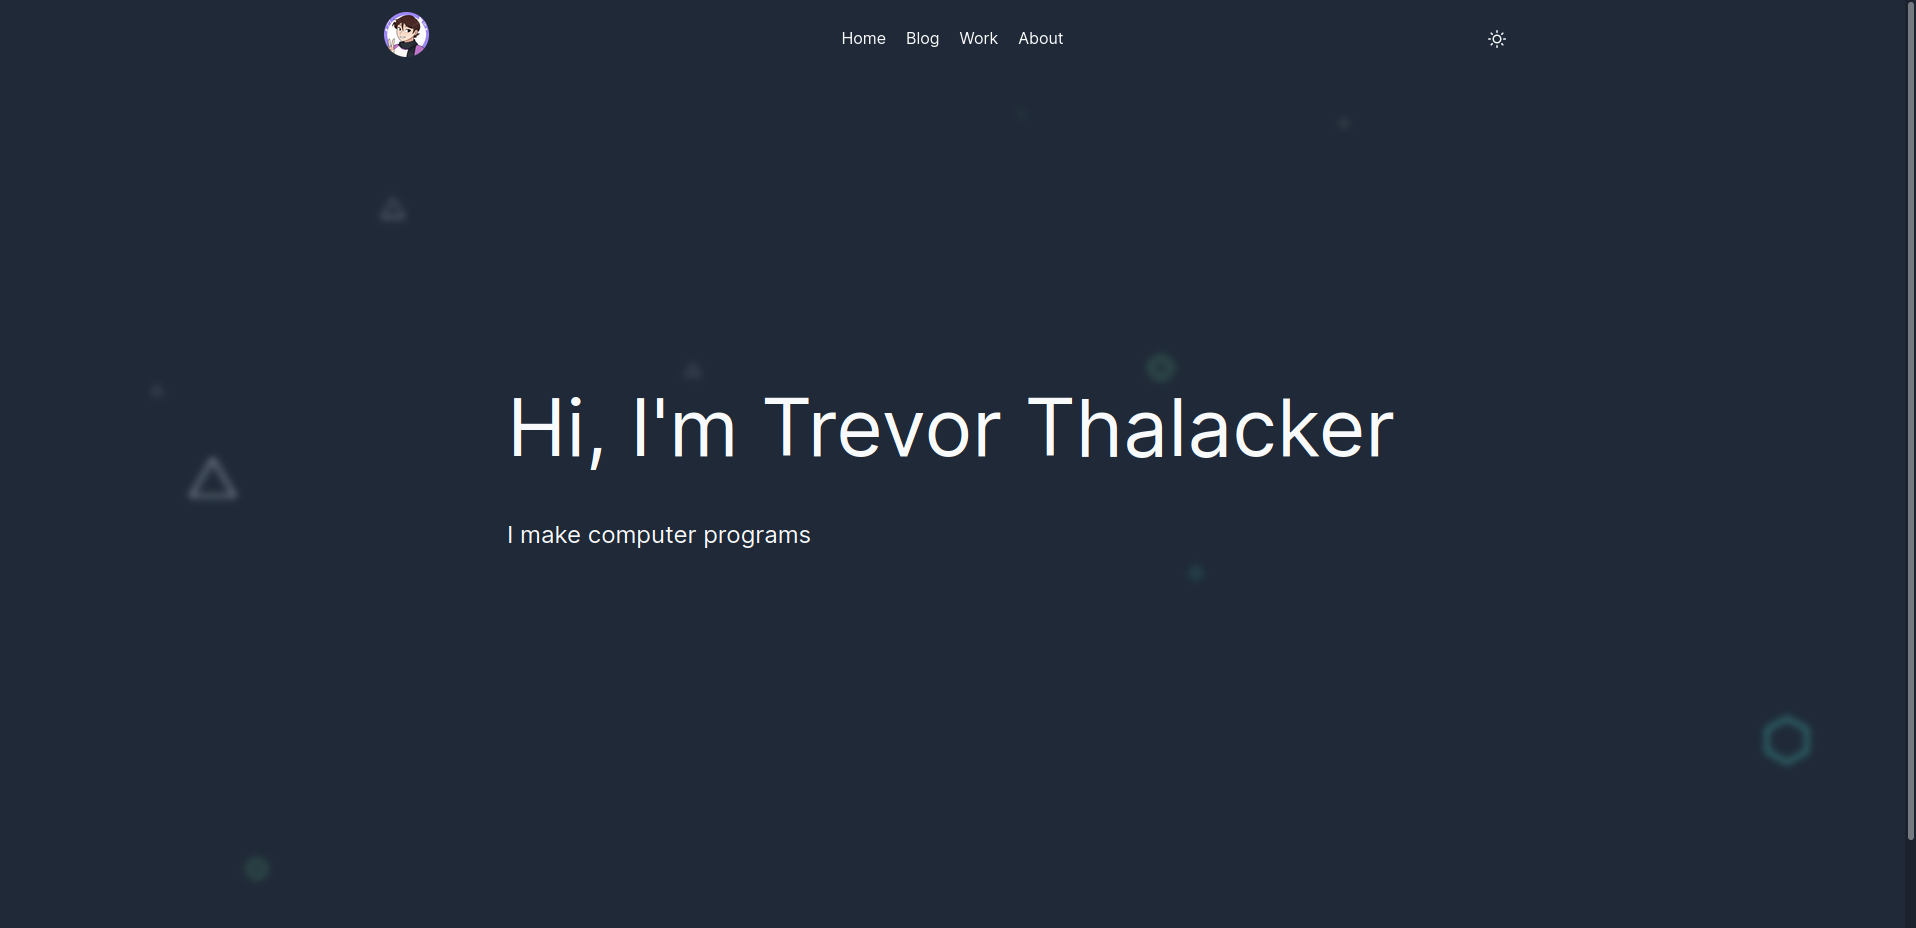
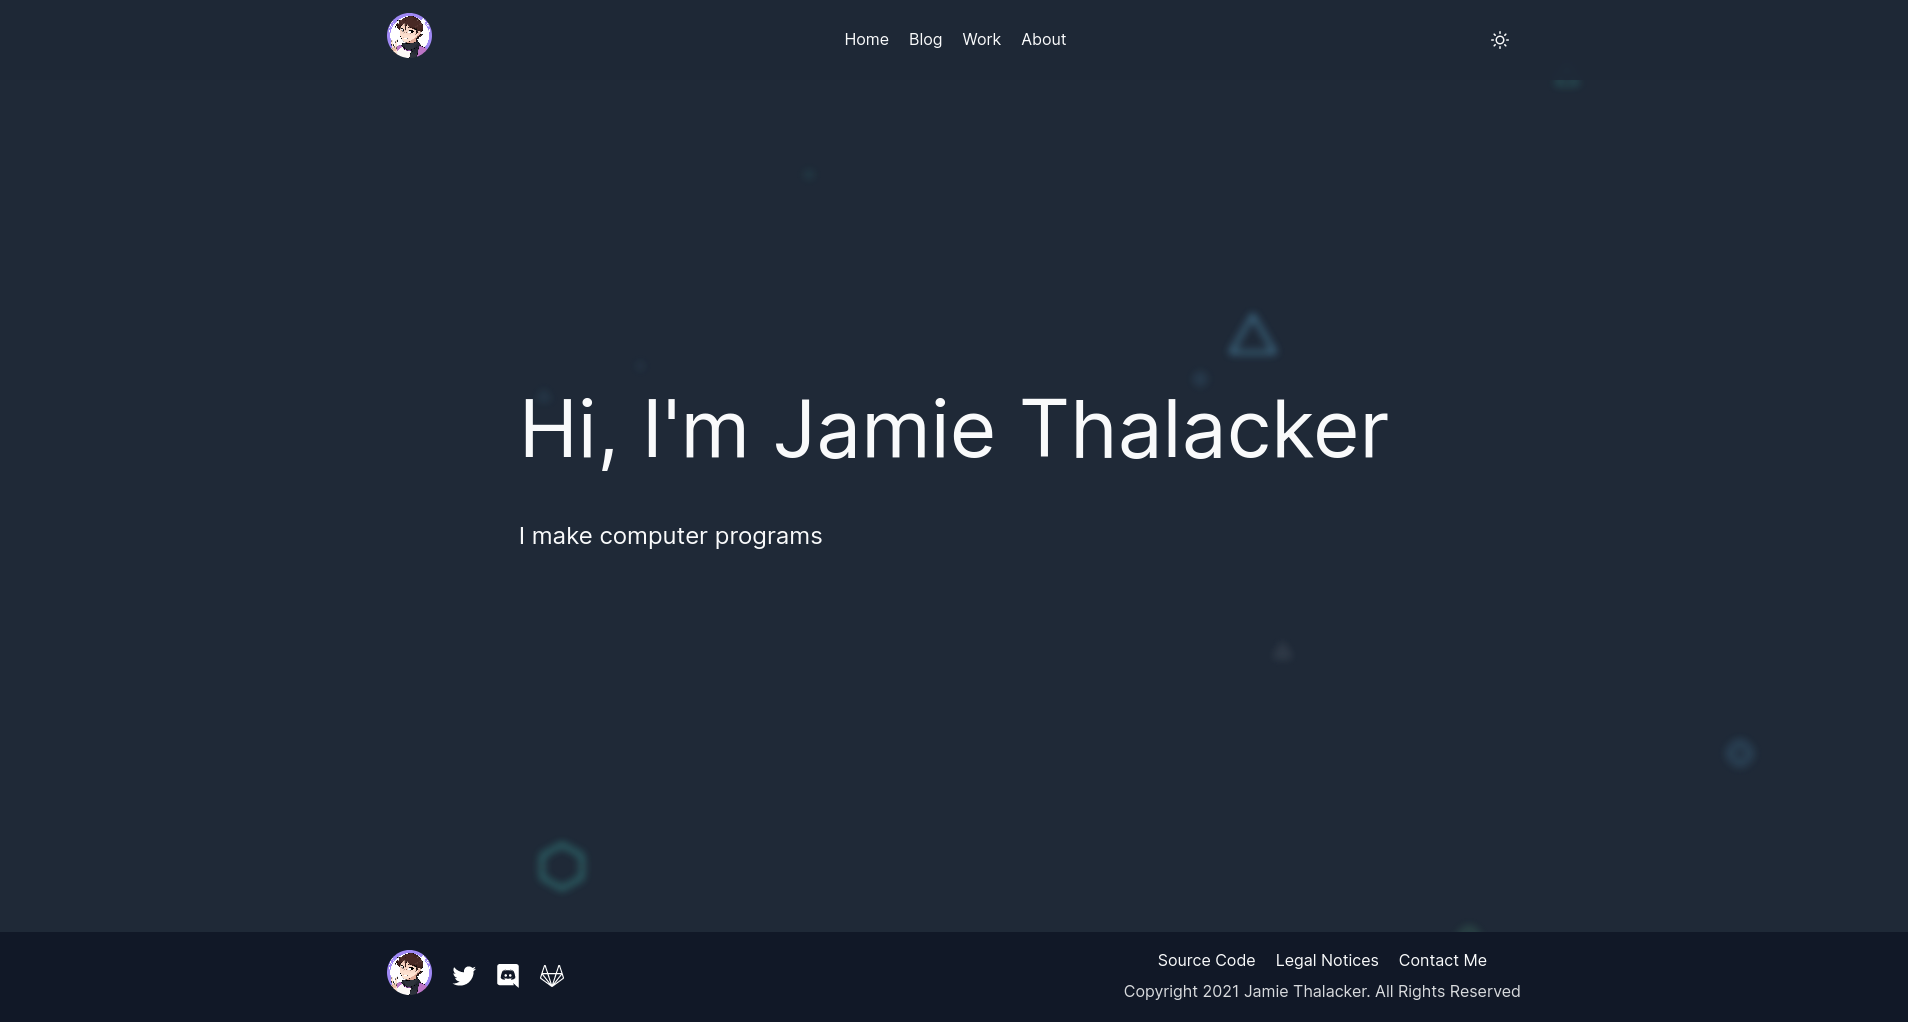
:tada: Change Name

diff --git a/src/pages/contact.tsx b/src/pages/contact.tsx
@@ -25,14 +25,7 @@ const Contact = () => {
                                 Dot HQ or Dot Browser
                             </Link>
                         </span>
-                        ? I have a Dot HQ email address,{' '}
-                        <span style={{ display: 'inline-block' }}>
-                            <Link href={'mailto:trevor@dothq.co'}>
-                                trevor@dothq.co
-                            </Link>
-                        </span>
-                        , or you could just submit feedback through Dot Browser.
-                        Which would probably be a better idea.
+                        ? Submit feedback through Dot Browser please.
                     </p>
 
                     <p>

diff --git a/src/config.ts b/src/config.ts
@@ -2,7 +2,7 @@ export const config = {
     name: 'Jamie Thalacker',
     hostname:
         process.env.NODE_ENV === 'production'
-            ? 'trevorthalacker.com'
+            ? 'jamiethalacker.dev'
             : 'localhost:3000',
     description: 'I make computer programs',
     username: 'jamiethalacker',

diff --git a/README.md b/README.md
@@ -1,3 +1,3 @@
-# trevorthalacker.com
+# jamiethalacker.dev
 
 ![Screenshot of personal website](./screenshot.png)
